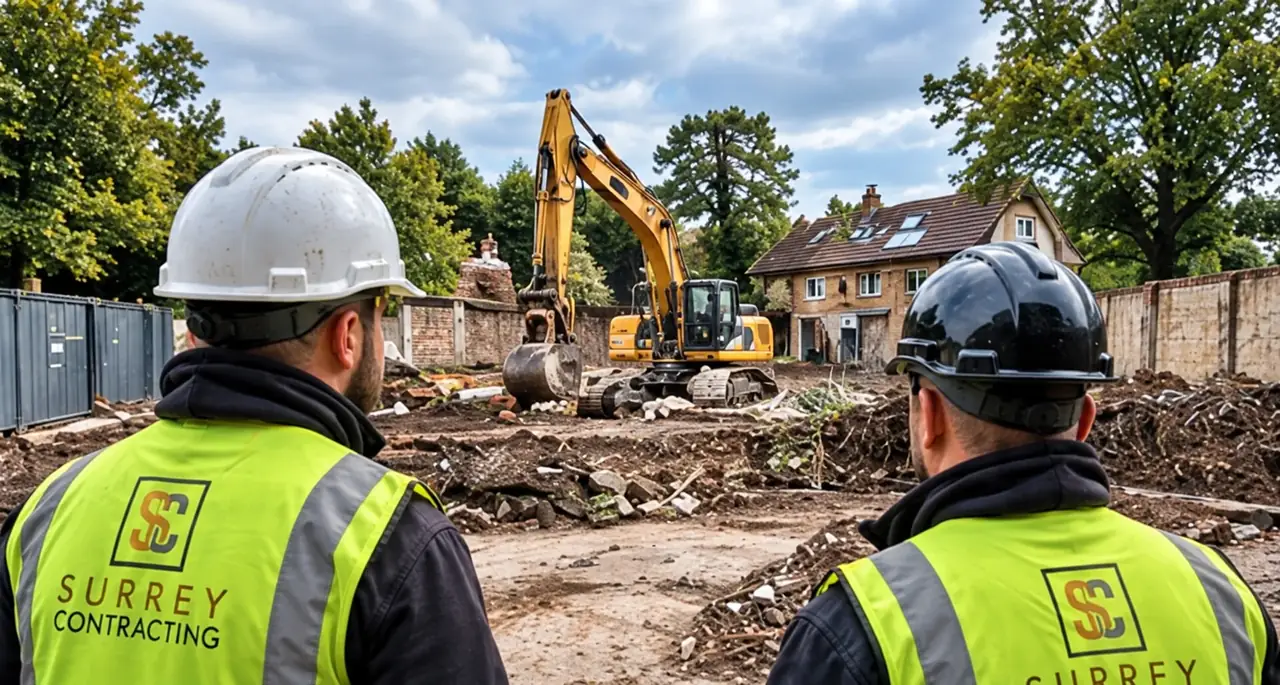
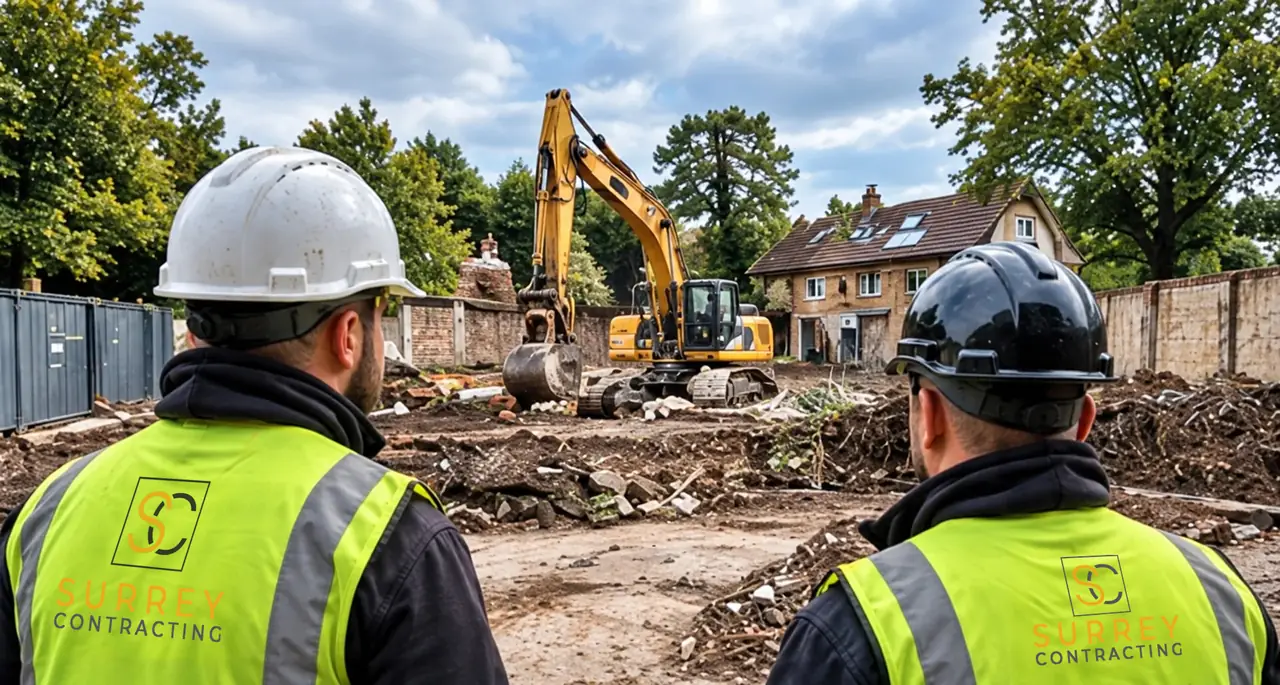
Replace Site Enabling hero and H&S supervision image with corrected versions
Swaps in Ed's approved v3 exports, keeping repo filenames:
- /site-enabling-works hero (1920, -1280, -640): boom badge smear
  removed, SC mark corrected.
- /health-safety approach image, health-safety-supervision (-1280,
  -640): vest wordmarks in brand colours, stray stroke removed,
  lettering no longer crowds the edge.

Each source was checked against the live file by pixel similarity (same
scene, same aspect). Only the existing variant sets were regenerated, and
dimensions are unchanged, so servicePages.ts is untouched. WebP via Pillow
with metadata stripped, LANCZOS. Variants at q72. The 1920 hero stays at
q45, the setting cc79938 chose for this file to keep heroes under 250 KB.
The H&S planning-cdm image is held back for another revision.

Claude-Session: https://claude.ai/code/session_01EGW5qQRM2WPSYT4cUQ4kK2

Changed region(s): [[0.0312, 0.6745, 0.1875, 0.9504], [0.7812, 0.7971, 0.9375, 1.0]]

diff --git a/tasks/todo.md b/tasks/todo.md
@@ -2089,3 +2089,8 @@ redirects; no /lp/* changes.
 - [x] `scripts/check-no-keys.mjs` in postbuild; `npm run test:ytq-relay` (25 checks, local stubs only)
 - [ ] Ed: put Surrey Contracting's YTQ secret key in `$DEPLOY_PATH/.env` as `YTQ_SECRET_KEY` (chmod 600), then `docker compose up -d`. Inert until set
 - [ ] Ed, after merge: view source on /, /contact and all nine /lp pages, no `ytq_live_`; first real enquiry shows in YTQ Enquiries with its sourceCampaign
+
+## Site Enabling hero and H&S supervision image, v3 swap (15 Oct 2026)
+- [x] site-enabling-hero (1920 + -1280 + -640) and health-safety-supervision (-1280 + -640) replaced with Ed's approved v3 exports. Same scenes (corr 0.9995 / 0.9967), dimensions unchanged, servicePages.ts untouched
+- [x] 1920 hero kept at q45 (the cc79938 setting for this file: 246 KB, q66 would be 316 KB, over the 250 KB hero budget); variants q72
+- [ ] health-safety-planning-cdm held back for another revision
